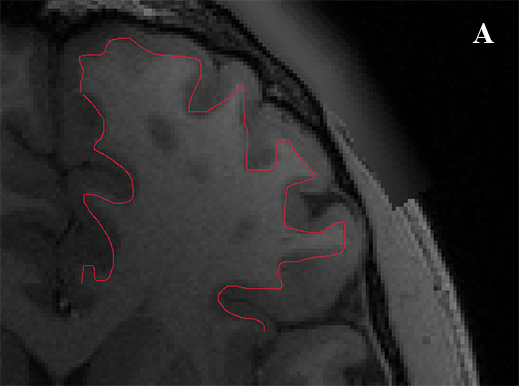
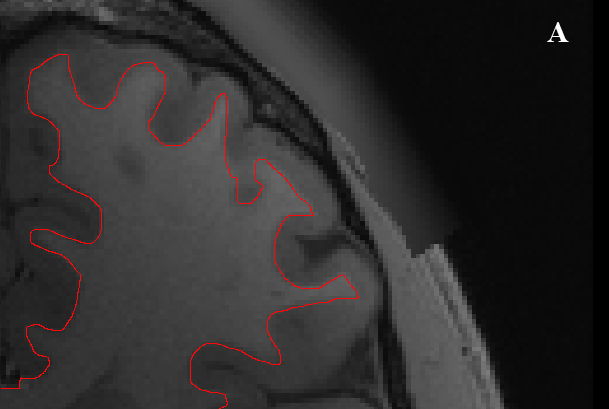
Updated chapter and images

diff --git a/chapters/chapter4/chapter4.tex b/chapters/chapter4/chapter4.tex
@@ -70,8 +70,8 @@ Main goals of PreFreeSurfer, according to~\cite{Gla13} are, ``1) to produce an u
 \indent Figure~\ref{fig:prefreesurfer_overview} illustrates the numbered sequence of steps in the PreFreeSurfer pipeline. The input to the pipeline are T1w and T2w images and the registerted field map. Second step(2) is gradient nonlinearity correction. This distortion is caused by magnetic resonance gradient nonlinearity~\cite{Gla13}. According to~\cite{Zou2004}, ``Gradient nonlinearity is a static characteristic of the gradient coil system known to system engineers and universally utilized for correction of geometric distortions for routine MRI scans''. Gradient nonlinearity distortion must be corrected from all images used for structural preprocessing (T1w, T2w, the field map and phase). Figure~\ref{fig:gradient_nonlinearity} represent gradient nonlinearity distortion correction. Gradient\_nonlin\_unwarp package available in FreeSurfer is used for correcting this distortion. For correcting the gradient nonlinearity distortion, the images are converted into a field map (in units of radians per second) using the fsl\_prepare\_fieldmap\_script. According to \cite{field_map}, ``A field map is an image of the intensity of the magnetic field across space''. Gradient nonlinearity distortion is then corrected with the help of field map. This is followed by warping of the field map magnitude image, according to the readout distortion. Separate registrations of the field map are then done to the T1w and T2w images using FLIRT.
 
 \begin{center}
-  \includegraphics[width=.5\linewidth,height=5cm]{t1w_without_gdc.png}%
-  \includegraphics[width=.5\linewidth,height=5cm]{t1w_with_gdc.png}
+  \includegraphics[width=.5\linewidth]{t1w_without_gdc.png}%
+  \includegraphics[width=.5\linewidth]{t1w_with_gdc.png}
   \captionof{figure}[Effect of gradient nonlinearity distortion on the T1w image]{Effect of gradient nonlinearity distortion on the T1w image. Panel A is the T1w image before gradient distortion correction, whereas Panel B is the T1w image after gradient distortion correction (Changes are marked with the red line). Files are taken from subject 105216.}
   \label{fig:gradient_nonlinearity}
   %\caption*{Extracted from \cite{Gla13}}
